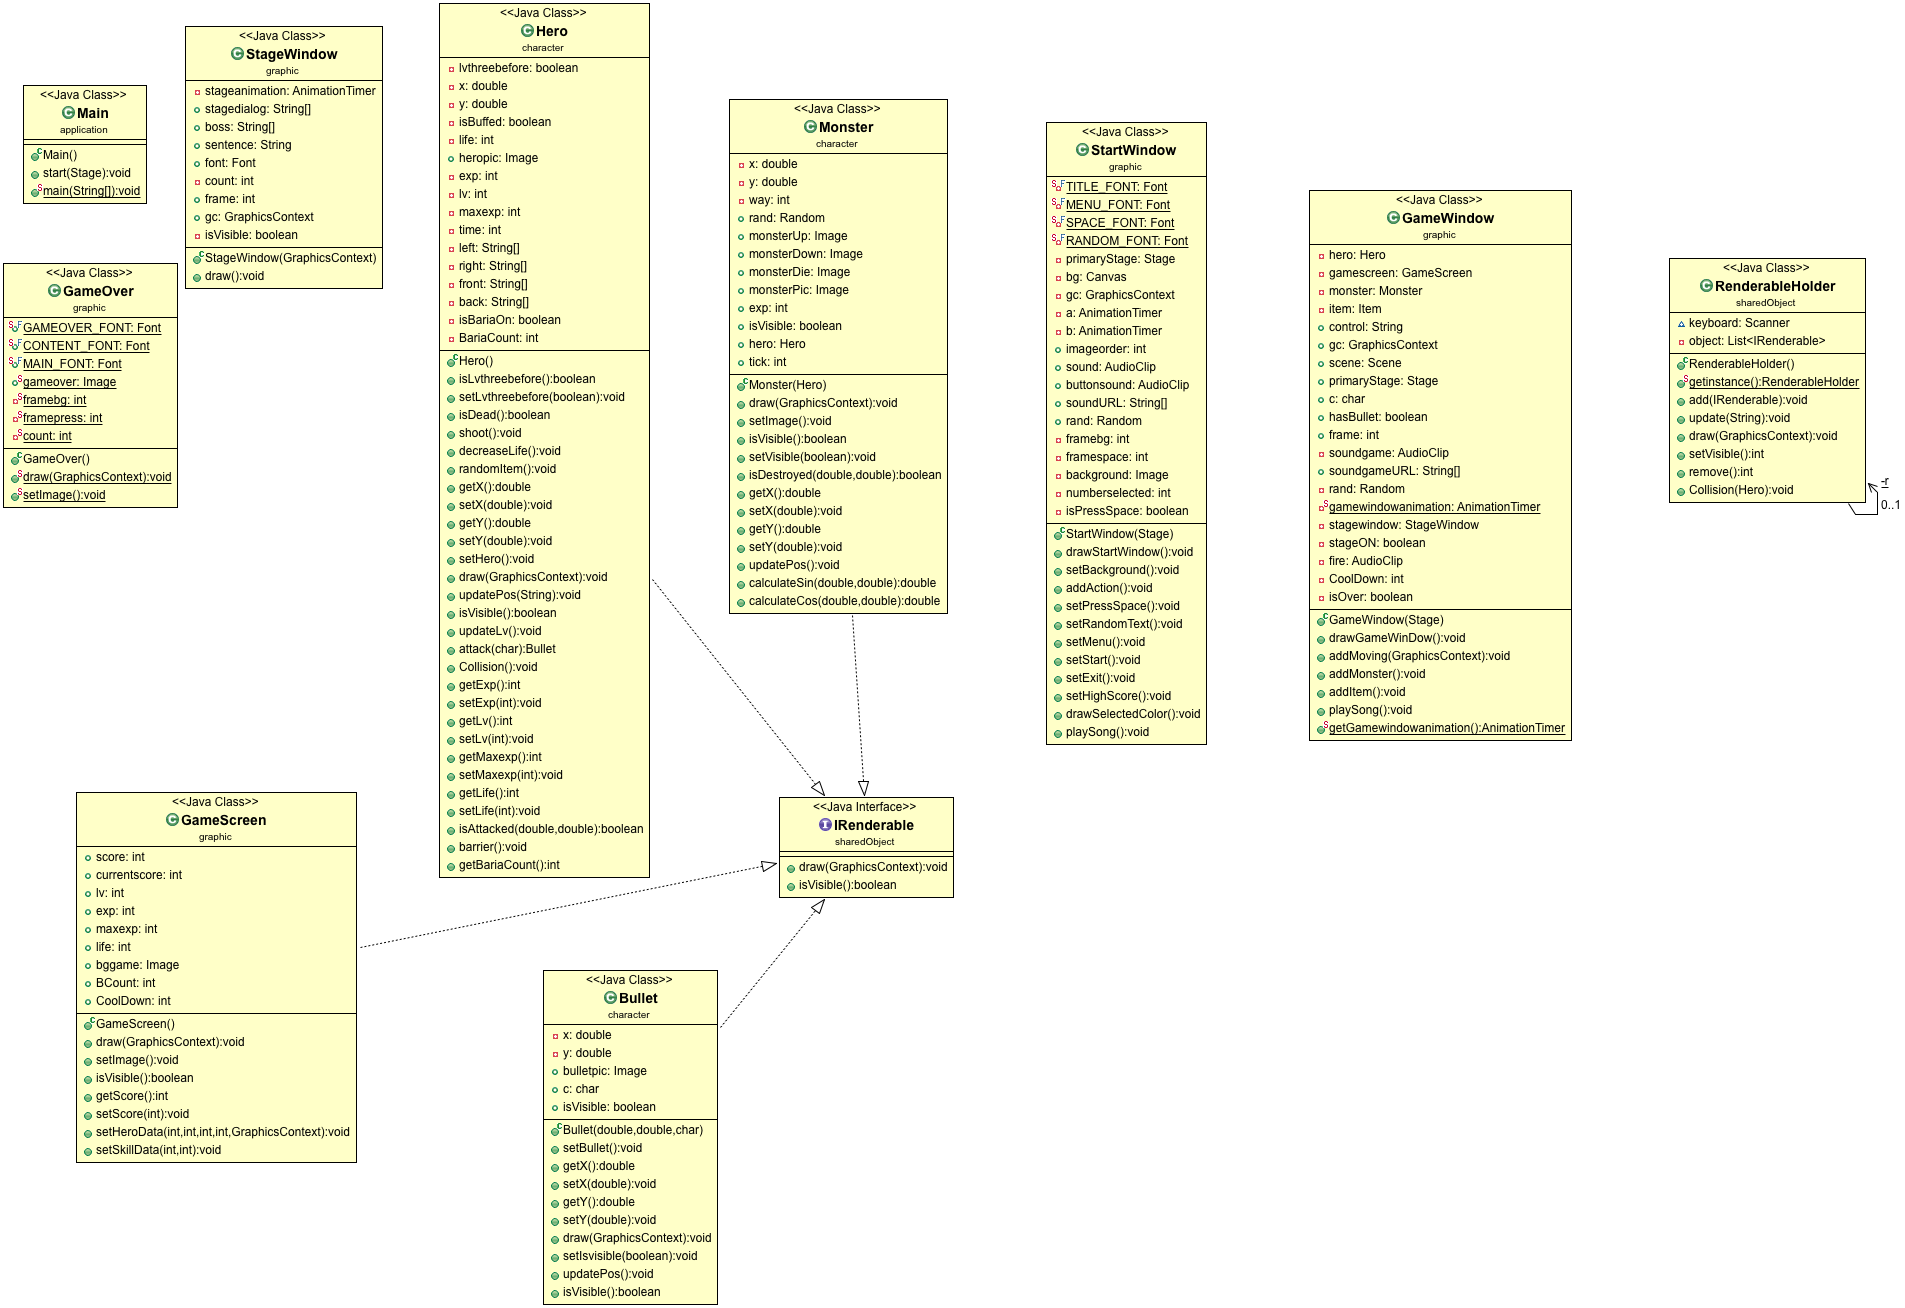
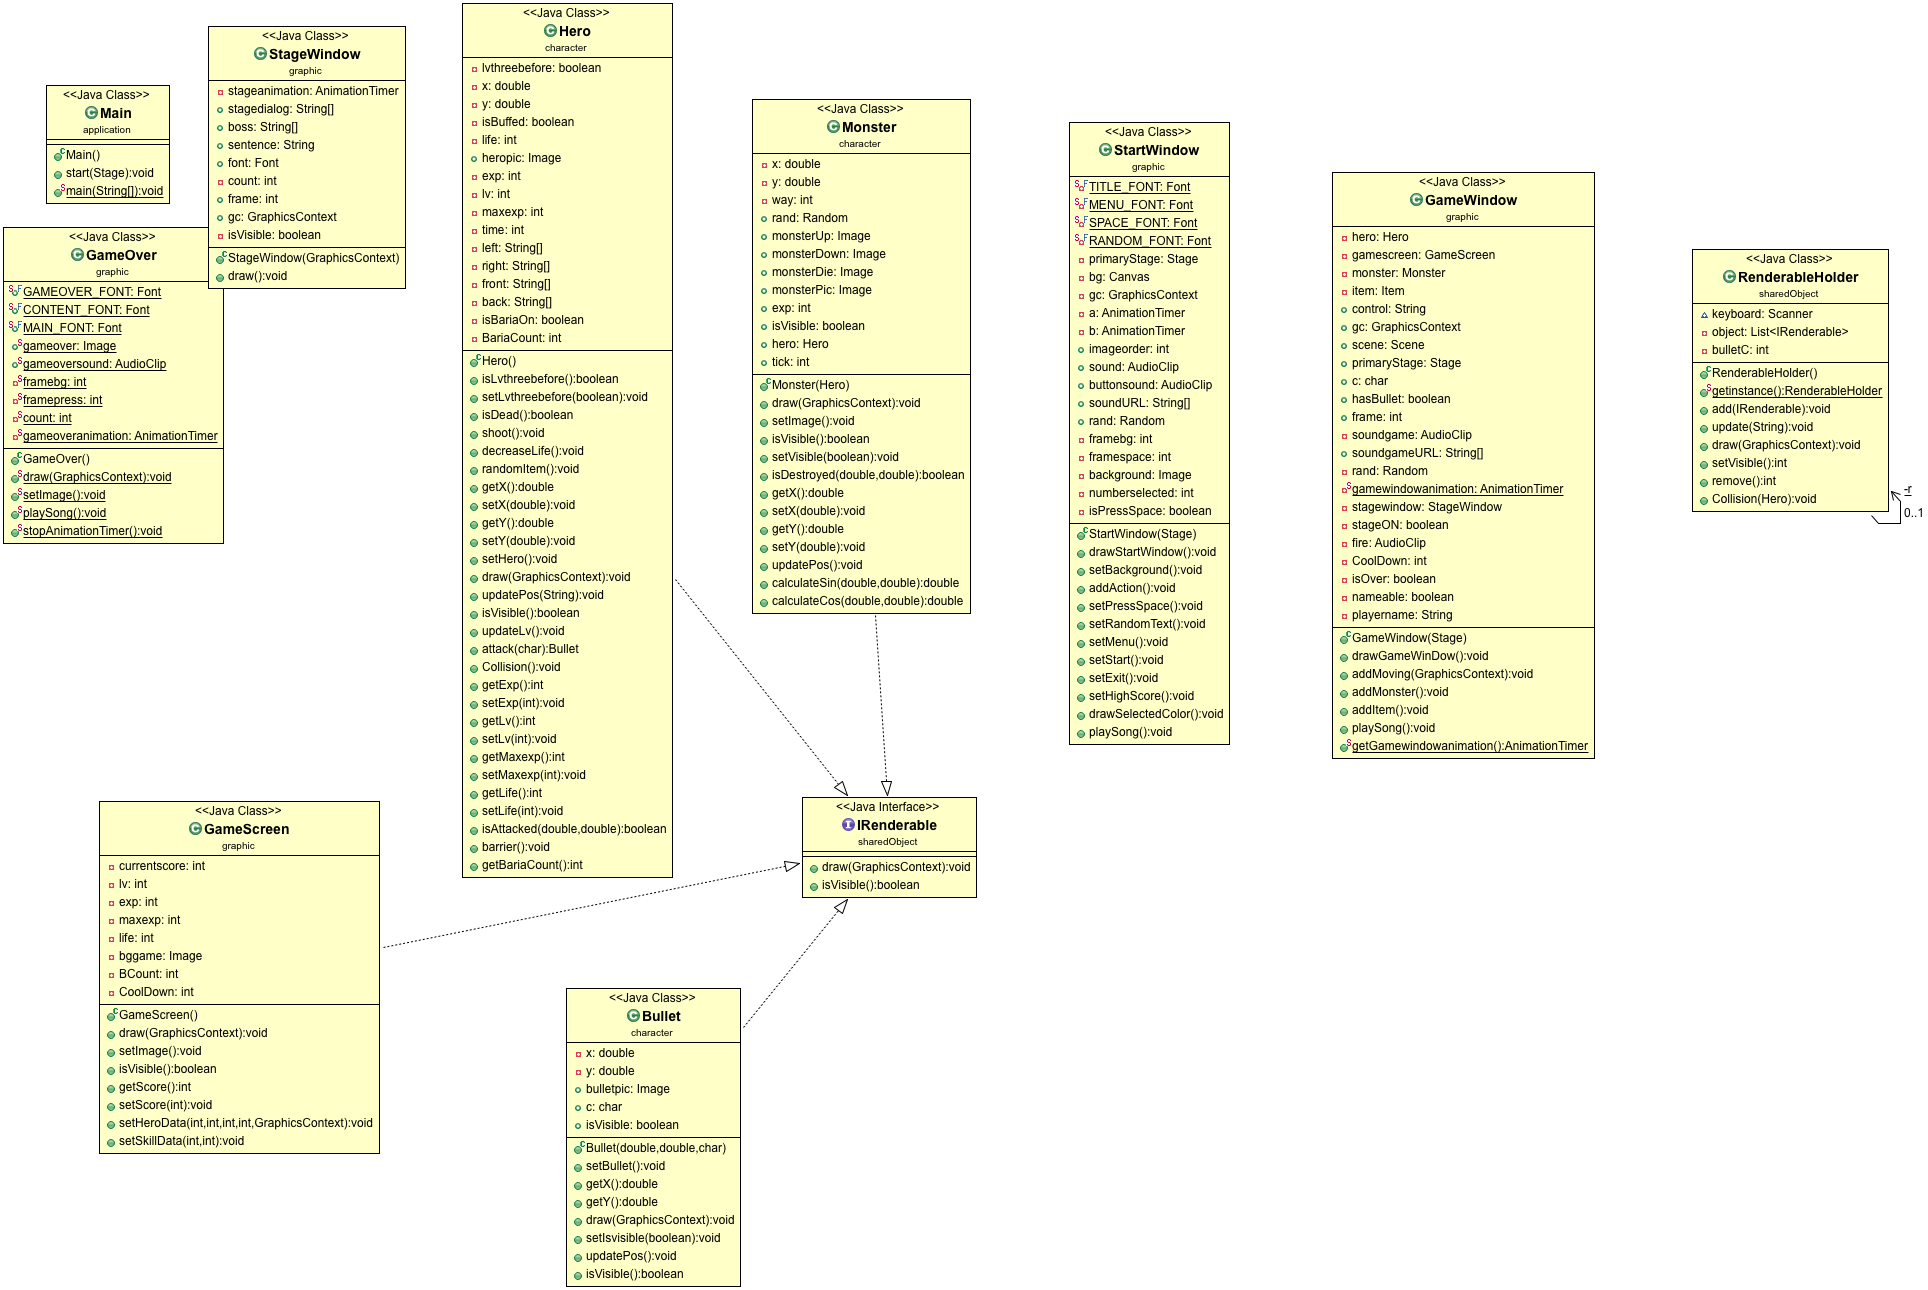
TO TOEI

diff --git a/src/graphic/GameWindow.java b/src/graphic/GameWindow.java
@@ -9,6 +9,9 @@ import javafx.animation.AnimationTimer;
 import javafx.scene.Scene;
 import javafx.scene.canvas.Canvas;
 import javafx.scene.canvas.GraphicsContext;
+import javafx.scene.control.Alert;
+import javafx.scene.control.Alert.AlertType;
+import javafx.scene.control.ButtonType;
 import javafx.scene.input.KeyCode;
 import javafx.scene.layout.StackPane;
 import javafx.scene.media.AudioClip;
@@ -36,6 +39,8 @@ public class GameWindow extends Canvas{
 	private AudioClip fire = new AudioClip(ClassLoader.getSystemResource("fire.wav").toString());
 	private int CoolDown = 0;
 	private boolean isOver = false;
+	private boolean nameable = false;
+	private String playername= "";
 	
 	public GameWindow(Stage primaryStage) {
 		stagewindow = new StageWindow(getGraphicsContext2D());
@@ -89,7 +94,7 @@ public class GameWindow extends Canvas{
 				if(CoolDown != 0 ) CoolDown--;
 				
 				RenderableHolder.getinstance().update(control);
-				if (soundgame.isPlaying()==false) playSong();
+				if (soundgame.isPlaying()==false && !isOver) playSong();
 				if (hero.getLv()==3 && hero.isLvthreebefore()==false && !isOver) {
 					hero.setLvthreebefore(true);
 					gamewindowanimation.stop();
@@ -97,9 +102,10 @@ public class GameWindow extends Canvas{
 					stageON = true;
 				}
 				if (hero.getLife()==0) {
-					gamewindowanimation.stop();
 					GameOver.draw(gc);
+					gamewindowanimation.stop();
 					isOver = true;
+					soundgame.stop();
 				}
 			}
 			};
@@ -108,6 +114,29 @@ public class GameWindow extends Canvas{
 	
 	public void addMoving(GraphicsContext gc) {
 		this.setOnKeyPressed((KeyEvent) -> {
+			if (nameable) {
+				if (KeyEvent.getCode() == KeyCode.BACK_SPACE) {
+					String tmp = playername;
+					playername ="";
+					for (int n=0; n<tmp.length()-1; n++) {
+						playername +=tmp.charAt(n);
+					}
+				}
+				AnimationTimer name = new AnimationTimer() {
+					public void handle(long now) {
+						HighScore.draw(gc,playername);
+					}
+				};
+				name.start();
+				if (playername.length()==11) {
+					Alert alert = new Alert(AlertType.ERROR,"Player's name is too long", ButtonType.OK);
+	                alert.setTitle("Error:PLAYER'S NAME IS TOO LONG");
+	                alert.setHeaderText("");
+	                alert.show();
+				}
+				playername +=KeyEvent.getText();
+				System.out.println(playername);
+			}
 			if (KeyEvent.getCode() == KeyCode.LEFT) {
 				control+="a";
 				c='a';
@@ -141,25 +170,38 @@ public class GameWindow extends Canvas{
 				}
 			}
 			if (KeyEvent.getCode() == KeyCode.ENTER) {
-				if (isOver) {
+				if (isOver && !nameable) {
 					soundgame.stop();
-					StartWindow startwindow = new StartWindow(primaryStage);
-					startwindow.drawStartWindow();
+					GameOver.stopAnimationTimer();
+					nameable = true;
+					HighScore.draw(gc,playername);
+					
+//					StartWindow startwindow = new StartWindow(primaryStage);
+//					startwindow.drawStartWindow();
 					}
-			}
-			if(KeyEvent.getCode() == KeyCode.D) {
-				if(CoolDown == 0)
-				{
-			    fire.play();
-				hero.attack('s');
-				hero.attack('w');
-				hero.attack('d');
-				hero.attack('a');
-				CoolDown = 90;
+				else if (isOver && nameable) {
+					HighScore.addData(gamescreen.getScore(),playername);
+					HighScore.drawTable(gc);
 				}
 			}
+			if(KeyEvent.getCode() == KeyCode.D) {
+				if (!isOver) {
+					if(CoolDown == 0)
+					{
+				    fire.play();
+					hero.attack('s');
+					hero.attack('w');
+					hero.attack('d');
+					hero.attack('a');
+					CoolDown = 90;
+					}
+				}
+				
+			}
 			if(KeyEvent.getCode() == KeyCode.S) {
+				if (!isOver) {
 				hero.barrier();
+				}
 			}
 			if (KeyEvent.getCode() == KeyCode.Q) {
 				

diff --git a/src/graphic/GameOver.java b/src/graphic/GameOver.java
@@ -5,6 +5,7 @@ package graphic;
 import javafx.animation.AnimationTimer;
 import javafx.scene.canvas.GraphicsContext;
 import javafx.scene.image.Image;
+import javafx.scene.media.AudioClip;
 import javafx.scene.paint.Color;
 import javafx.scene.text.Font;
 
@@ -13,17 +14,19 @@ public class GameOver {
 	public static final Font CONTENT_FONT = new Font("Digital Tech",40);
 	public static final Font MAIN_FONT = new Font("Courier New",20);
 	public static Image gameover;
+	public static AudioClip gameoversound = new AudioClip(ClassLoader.getSystemResource("GameOver.wav").toString());
 	private static int framebg = 0;
 	private static int framepress =0;
 	private static int count;
+	private static AnimationTimer gameoveranimation;
 	public GameOver() {
 		
 	}
 	public static void draw(GraphicsContext gc) {
 		setImage();
 		count =0;
-		AnimationTimer gameoveranimation = new AnimationTimer() {
-
+		playSong();
+		gameoveranimation = new AnimationTimer() {
 			@Override
 			public void handle(long now) {
 				if (count!=3) {
@@ -70,5 +73,11 @@ public class GameOver {
 	public static void setImage() {
 		gameover = new Image("gameover.jpg");
 		
+	}
+	public static void playSong() {
+		gameoversound.play();
+	}
+	public static void stopAnimationTimer() {
+		gameoveranimation.stop();
 	}
 }

diff --git a/src/graphic/HighScore.java b/src/graphic/HighScore.java
@@ -1,0 +1,41 @@
+package graphic;
+
+import java.util.ArrayList;
+import java.util.List;
+
+import javafx.scene.canvas.GraphicsContext;
+import javafx.scene.image.Image;
+import javafx.scene.paint.Color;
+import javafx.scene.text.Font;
+
+public class HighScore {
+	private static List<String> data = new ArrayList<>();
+	public static final Font font = new Font("Digital tech",50);
+	public HighScore() {
+		
+	}
+	public static void draw(GraphicsContext gc,String name) {
+		Image bgname = new Image("highscore.jpg");
+		gc.drawImage(bgname, 0, 0);
+		gc.setFill(Color.ALICEBLUE);
+		gc.setFont(font);
+		gc.fillText("ENTER YOUR NAME", 225, 70);
+		gc.fillText(name, 250, 200);
+		
+	}
+	public static void drawTable(GraphicsContext gc) {
+		Image bghighscore = new Image("highscorebg.jpg");
+		gc.drawImage(bghighscore, 0, 0);
+		int j = data.size();
+		if (data.size()>10) j=10;
+		for (int i =0; i<j; i++) {
+			gc.setFill(Color.ALICEBLUE);
+			gc.setFont(font);
+			gc.fillText(data.get(i), 250, 200);
+			
+		}
+	}
+	public static void addData(int score,String name) {
+		data.add(name+" "+score);
+	}
+}

diff --git a/src/graphic/GameScreen.java b/src/graphic/GameScreen.java
@@ -1,26 +1,20 @@
 package graphic;
 
-import javafx.scene.canvas.Canvas;
 import javafx.scene.canvas.GraphicsContext;
 import javafx.scene.image.Image;
 import javafx.scene.paint.Color;
 import javafx.scene.text.Font;
-import javafx.stage.Stage;
 import sharedObject.IRenderable;
 
 public class GameScreen implements IRenderable {
-
-	public int score;
-
-	public int currentscore = 0;
-
-	public int lv;
-	public int exp;
-	public int maxexp;
-	public int life;
-	public Image bggame;
-	public int BCount;
-	public int CoolDown ;
+	private int currentscore = 0;
+	private int lv;
+	private int exp;
+	private int maxexp;
+	private int life;
+	private Image bggame;
+	private int BCount;
+	private int CoolDown ;
 	
 	public GameScreen() {
 		setImage();

diff --git a/src/graphic/StartWindow.java b/src/graphic/StartWindow.java
@@ -126,6 +126,7 @@ public class StartWindow{
 				}
 				
 			}
+			
 			if (KeyEvent.getCode() == KeyCode.R) {
 				sound.stop();
 				playSong();
